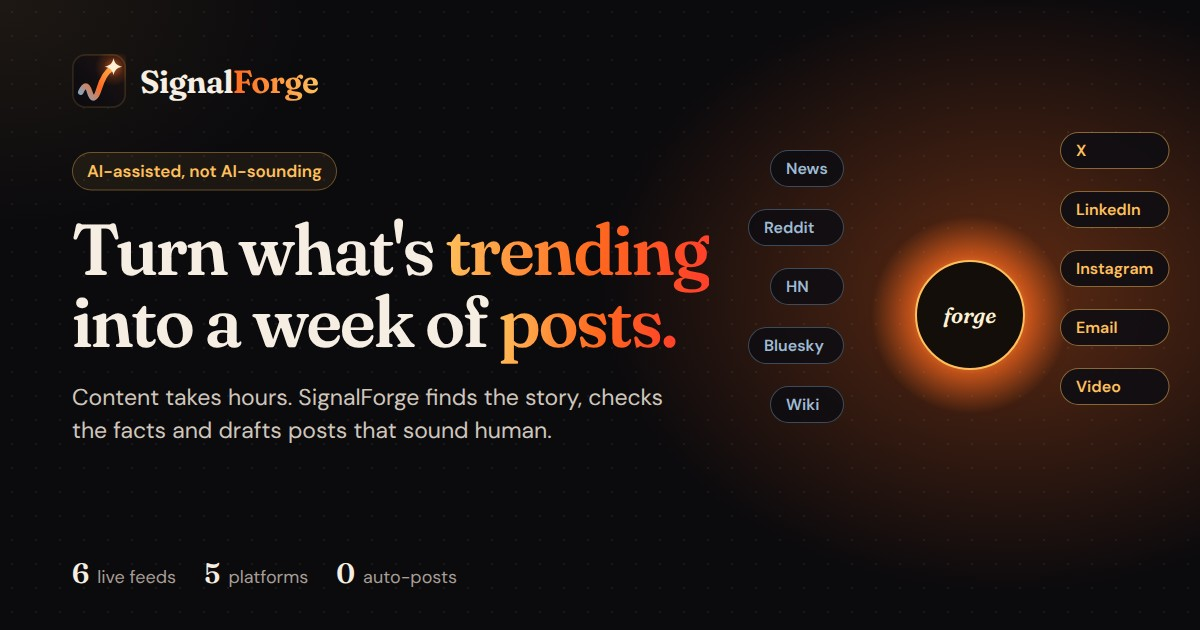
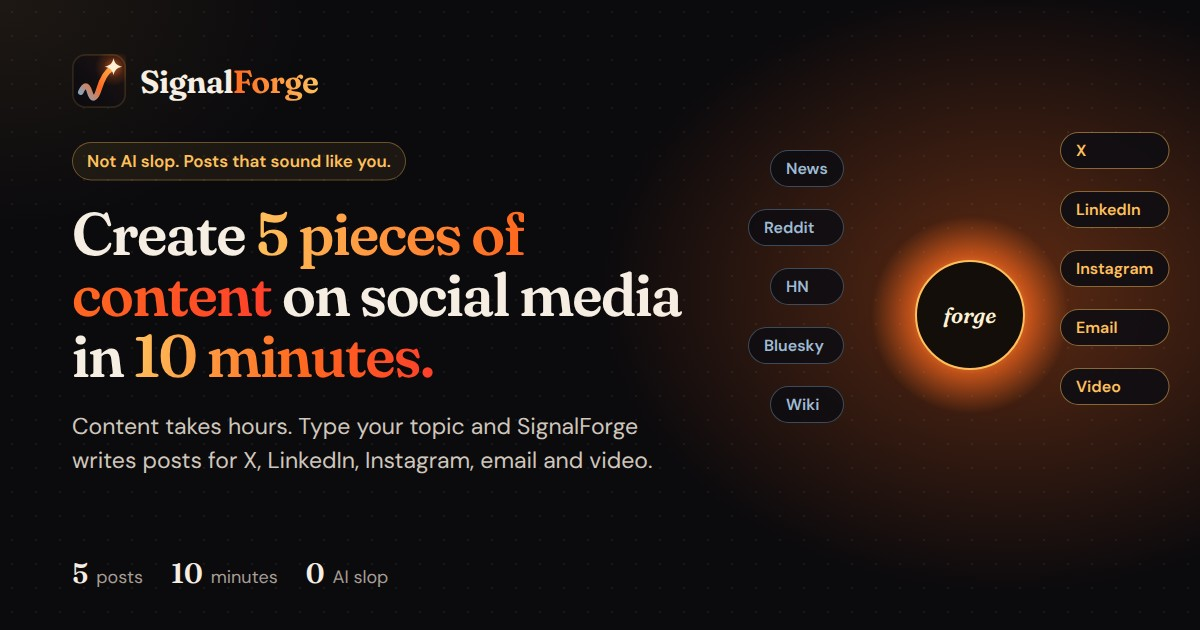
New share image and manifest copy for the 5-posts-in-10-minutes headline; README words table, Autopilot flow and Anthropic stack; story evidence toggle

diff --git a/app/components/signals/SignalsScreen.tsx b/app/components/signals/SignalsScreen.tsx
@@ -332,6 +332,7 @@ function NarrativeCard({
   onAutopilot: () => void;
 }) {
   const [editing, setEditing] = useState(false);
+  const [showEvidence, setShowEvidence] = useState(false);
   const [title, setTitle] = useState(n.title);
   useEffect(() => setTitle(n.title), [n.title]);
   const stage = STAGE_META[n.stage];
@@ -386,10 +387,15 @@ function NarrativeCard({
         </p>
       )}
 
-      <details className="mt-3">
-      <summary className="cursor-pointer select-none text-[13px] text-muted-foreground transition hover:text-foreground">
-        See the {evidence.length} post{evidence.length === 1 ? "" : "s"} behind this story
-      </summary>
+      <button
+        type="button"
+        aria-expanded={showEvidence}
+        onClick={() => setShowEvidence((v) => !v)}
+        className="mt-3 self-start text-left text-[13px] text-muted-foreground transition hover:text-foreground"
+      >
+        {showEvidence ? "Hide the posts" : `See the ${evidence.length} post${evidence.length === 1 ? "" : "s"} behind this story`}
+      </button>
+      {showEvidence && (
       <ul className="mt-3 space-y-2">
         {evidence.slice(0, 3).map((s) => (
           <li key={s.id}>
@@ -403,7 +409,7 @@ function NarrativeCard({
           </li>
         ))}
       </ul>
-      </details>
+      )}
 
       <div className="mt-auto pt-5">
       <div className="flex flex-wrap items-center gap-2 border-t border-border/70 pt-4">

diff --git a/app/routes/_index.tsx b/app/routes/_index.tsx
@@ -28,7 +28,7 @@ import "@/components/landing/landing.css";
 const TITLE = "SignalForge · Create 5 pieces of content on social media in 10 minutes";
 const DESC =
   "Content takes hours you don't have. Type your topic and SignalForge finds what people are talking about, checks the facts and writes 5 posts for X, LinkedIn, Instagram, email and video that sound like you, not AI slop.";
-const OG_IMAGE = "https://signalforge-agent.vercel.app/og.jpg?v=3";
+const OG_IMAGE = "https://signalforge-agent.vercel.app/og.jpg?v=4";
 
 export function meta() {
   return [

diff --git a/README.md b/README.md
@@ -1,21 +1,38 @@
 # SignalForge — AI Content Intelligence Studio
 
-![SignalForge: turn what's trending into a week of posts](public/og.jpg)
+![SignalForge: create 5 pieces of content on social media in 10 minutes](public/og.jpg)
 
-**Turn what's trending into a week of posts.** SignalForge finds the stories starting to rise in your niche, checks them against sources you approve, and turns them into a ready-to-post campaign on a calendar. The agent does the research and writing. You decide which sources count, what gets published and when.
+**Create 5 pieces of content on social media in 10 minutes.** Posting every day takes hours: finding a topic, checking the facts, then writing it five different ways. SignalForge does that work. Type your topic, tap **Autopilot**, and get an X thread, a LinkedIn post, an Instagram caption, a newsletter and a short video script, built from real stories and real sources. It's not AI slop: every post starts from facts you can trace, follows your angle, and skips the words that give AI away. You read, tweak and approve. SignalForge never posts for you.
 
 **Live app:** https://signalforge-agent.vercel.app
 
-Built with [Agent-Native](https://www.agent-native.com) for the [Builder.io hackathon](https://www.builder.io/hackathon). The agent runs on the Builder.io gateway, so it needs no other model or search API keys.
+Built with [Agent-Native](https://www.agent-native.com) for the [Builder.io hackathon](https://www.builder.io/hackathon). The live site has a shared AI model key, so new users don't have to connect anything.
+
+## Words you'll see
+
+| Word | Means |
+| --- | --- |
+| **Signals** | Find trends: the stories people are talking about right now in your topic |
+| **Autopilot** | AI does it all: it finds the facts, plans the posts and writes all 5. You approve |
+| **Step by step** | You check each article before anything is written |
+| **Forge** | Write posts: your workshop, where a story becomes finished posts you can edit |
+| **Post plan** | The main point, who it's for, the tone and the key facts every post follows |
+| **Calendar** | Plan when to post. Copy each post when it's time, or add them to Google or Apple Calendar |
+
+A 7-step guided tour runs on the first visit and can be replayed from the **?** button.
 
 ## The flow
 
-1. **Signals.** Type a niche (for example "fintech in Africa") and pick a region. SignalForge scans six free, keyless feeds: Google News, Hacker News, Reddit, Bluesky, Wikipedia pageviews and Google Trends. It groups what it finds into emerging narratives, each with a momentum score, a stage and the evidence behind it. If a feed is down, the scan still finishes and shows that feed as off. "Sharpen with agent" rewrites the clusters into tighter narratives, citing only real signals.
+**Autopilot (one tap):** on any trending story, tap **Autopilot · 5 posts**. The agent researches the story, approves the most credible articles, writes the post plan and drafts all five posts in about a minute. Your posts appear first on the Forge, with "How these posts were made" underneath. Autopilot never overrides an article you approved, rejected or added yourself, and posts still need your approval.
+
+**Step by step:**
+
+1. **Signals.** Type your topic (for example "fitness") and pick a country. SignalForge scans six free, keyless feeds: Google News, Hacker News, Reddit, Bluesky, Wikipedia pageviews and Google Trends. It groups what it finds into emerging narratives, each with a momentum score, a stage and the evidence behind it. If a feed is down, the scan still finishes and shows that feed as off. "Improve this list with AI" rewrites the clusters into tighter narratives, citing only real signals.
 2. **Forge.** Pick a narrative.
-   - **Sources:** "Quick research" pulls source candidates from the free feeds in a few seconds. "Research with agent" also reads each excerpt and recommends approve or reject, with a reason. A recommendation stays pending until you approve or reject the source yourself, one at a time or in bulk.
-   - **Brief:** locked until at least one source is approved. The server rejects a brief that cites a source you haven't approved. Every field can be edited in place.
+   - **Facts & sources:** "Find articles" pulls source candidates from the free feeds in a few seconds. "Let AI check them" also reads each excerpt and recommends approve or reject, with a reason. A recommendation stays pending until you approve or reject the source yourself, one at a time or in bulk.
+   - **Post plan:** locked until at least one source is approved. The server rejects a brief that cites a source you haven't approved. Every field can be edited in place.
    - **Drafts:** written from the brief for X, LinkedIn, Instagram, a newsletter and a short-video script. The server enforces each platform's limits (280 characters per X post, up to 6 posts in a thread) and reports exact counts so the agent can shorten and retry. You can edit inline, use one-tap rewrites (Punchier, Shorter, More personal, More authoritative, Stronger hook) or give your own instruction. Drafts you edited are kept when the agent redrafts. Only you can approve a draft.
-3. **Calendar.** Approved drafts wait under "Ready to schedule". You can drag a draft onto a day, or on a phone tap the draft and then the day. You can move posts, mark them published, copy them or take them off the calendar. Two posts on the same platform must be at least 60 minutes apart, and a clash is refused with a clear message. "Export .ics" downloads every post, with its full text and a 10-minute reminder, for Google Calendar or Apple Calendar.
+3. **Calendar.** Approved posts wait under "Ready to place". You can drag a draft onto a day, or on a phone tap the draft and then the day. You can move posts, mark them published, copy them or take them off the calendar. Two posts on the same platform must be at least 60 minutes apart, and a clash is refused with a clear message. "Add to my calendar" downloads an .ics file with every post, with its full text and a 10-minute reminder, for Google Calendar or Apple Calendar.
 
 SignalForge never posts anywhere for you. "Published" means you posted the content yourself.
 
@@ -29,14 +46,15 @@ Every capability is a single action that the UI, the agent sidebar and MCP clien
 | `get-signals-board` | Read the signals and narratives |
 | `save-narratives`, `update-narrative` | Save sharpened narratives; rename, pick or dismiss one |
 | `research-narrative`, `add-source` | Gather source candidates with stored excerpts |
-| `review-source` | Approve or reject many sources at once. When the agent calls it, it only records a recommendation. |
+| `review-source` | Approve or reject many sources at once. From the agent it only records a recommendation, except on an Autopilot story. |
+| `set-autopilot` | User only: turn Autopilot on or off for a story |
 | `get-forge`, `save-brief` | Read the forge; save a brief that may cite approved sources only |
 | `save-drafts`, `update-draft` | Write, edit, rewrite or approve platform drafts (limits checked on the server) |
 | `get-calendar`, `schedule-draft`, `export-ics` | Schedule, move, unschedule or mark published; export to .ics |
 
 ## Human control, enforced on the server
 
-- When the agent reviews a source it only records a recommendation. Only the signed-in user can set a source to approved or rejected.
+- When the agent reviews a source it only records a recommendation. Only the signed-in user can set a source to approved or rejected, or turn on Autopilot, which lets the agent's picks count for that one story (never over the user's own decisions).
 - A brief can only cite approved source IDs.
 - Only the user can approve a draft, and a draft over its platform limit can't be approved.
 - Only approved drafts can be scheduled. Same-platform clashes are refused.
@@ -47,16 +65,17 @@ Every capability is a single action that the UI, the agent sidebar and MCP clien
 SignalForge has its own "heat map" identity: raw signals are cool steel blue, narratives being worked on are ember orange, finished drafts are molten gold, approvals are quench teal and rejections are slag red, all on anvil charcoal.
 
 - **Logo:** a cold signal line that heats as it rises and strikes a spark (`app/components/landing/Logo.tsx`, `public/favicon.svg`).
-- **Type:** Archivo (variable width) for display and body, Martian Mono for data labels.
+- **Type:** Fraunces for headlines, DM Sans for text, JetBrains Mono for small data, all self-hosted.
 - **Icons:** a custom 24-grid SVG set in `app/components/icons/index.tsx`, also drawn over the framework's chat and settings icons (`scripts/gen-icons.tsx` regenerates `app/components/icons/tabler-swap.css` and `public/icons/sf/`).
 - **Landing:** a live canvas hero (`app/components/landing/SignalField.tsx`) where signals from six feeds stream into the forge and leave as five platform drafts. It respects reduced motion.
-- **Navigation:** a sidebar on desktop, a bottom tab bar (Signals, Forge, Calendar, Agent) on phones, and filter tabs on the wire, sources, drafts and calendar.
+- **Navigation:** a sidebar on desktop (each item with a plain subtitle: Find trends, Write posts, Plan when to post), a bottom tab bar (Signals, Forge, Calendar, AI help) on phones, and filter tabs on found items, sources, posts and the calendar.
+- **Plain words:** coined terms have a dotted underline that explains them on hover or tap (`app/lib/glossary.ts`, `app/components/guide/Term.tsx`); the first-visit tour is `app/components/guide/Tour.tsx`.
 - **Agent chat:** its own cooler steel panel, separate from the warm main view, with SignalForge prompts.
 
 ## Stack
 
 - Agent-Native (`@agent-native/core`), React Router, React 19, Tailwind
-- Builder.io gateway for the agent model ("Use Builder.io" in settings)
+- Anthropic Claude for the agent model (a deployment-wide `ANTHROPIC_API_KEY`; users can also connect Builder.io or their own key in settings)
 - Postgres (Neon, through Vercel) using Drizzle migrations
 - Deployed on Vercel
 
@@ -67,7 +86,7 @@ pnpm install
 pnpm dev            # http://localhost:8080
 ```
 
-Sign up, then open **Settings → Integrations → Builder.io** and tap **Use Builder.io** to enable the agent. Scanning, quick research, editing and the calendar work without it.
+Set `ANTHROPIC_API_KEY` (or sign up and connect Builder.io or your own key under **Settings**) to enable the agent. Finding trends, finding articles, editing and the calendar work without it.
 
 Checks:
 
